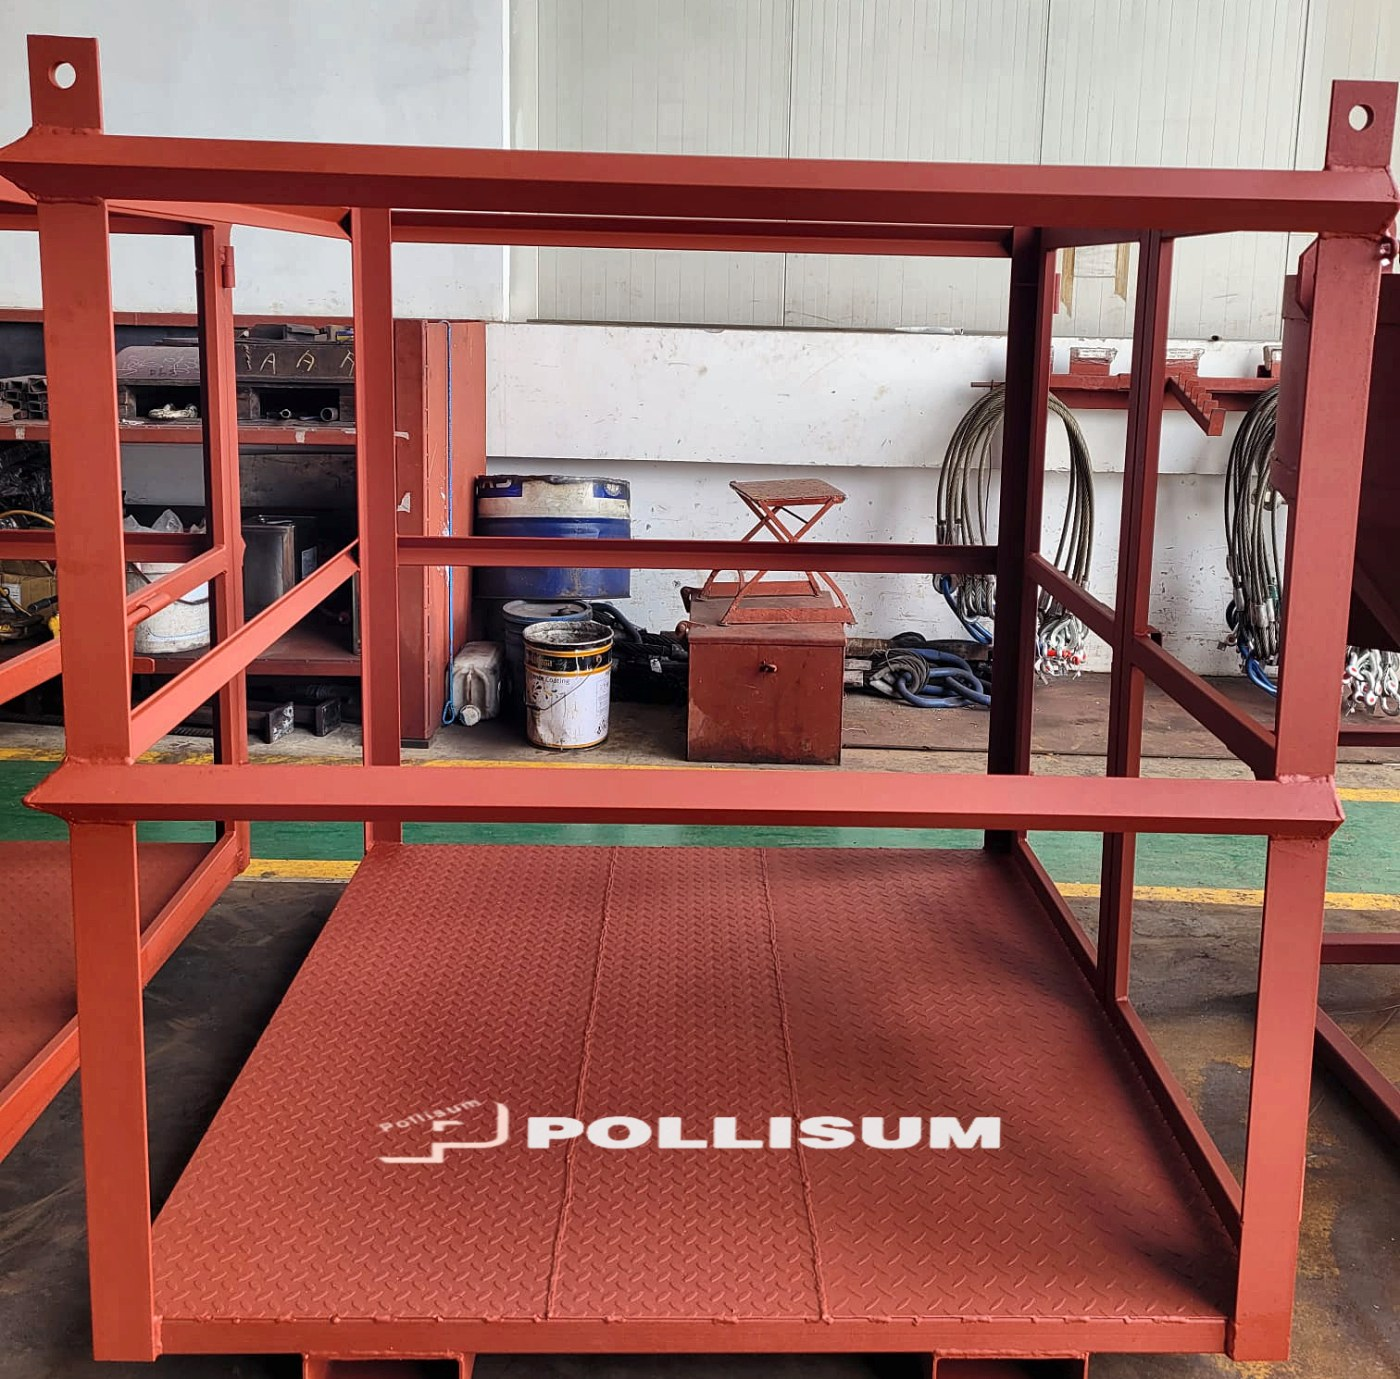
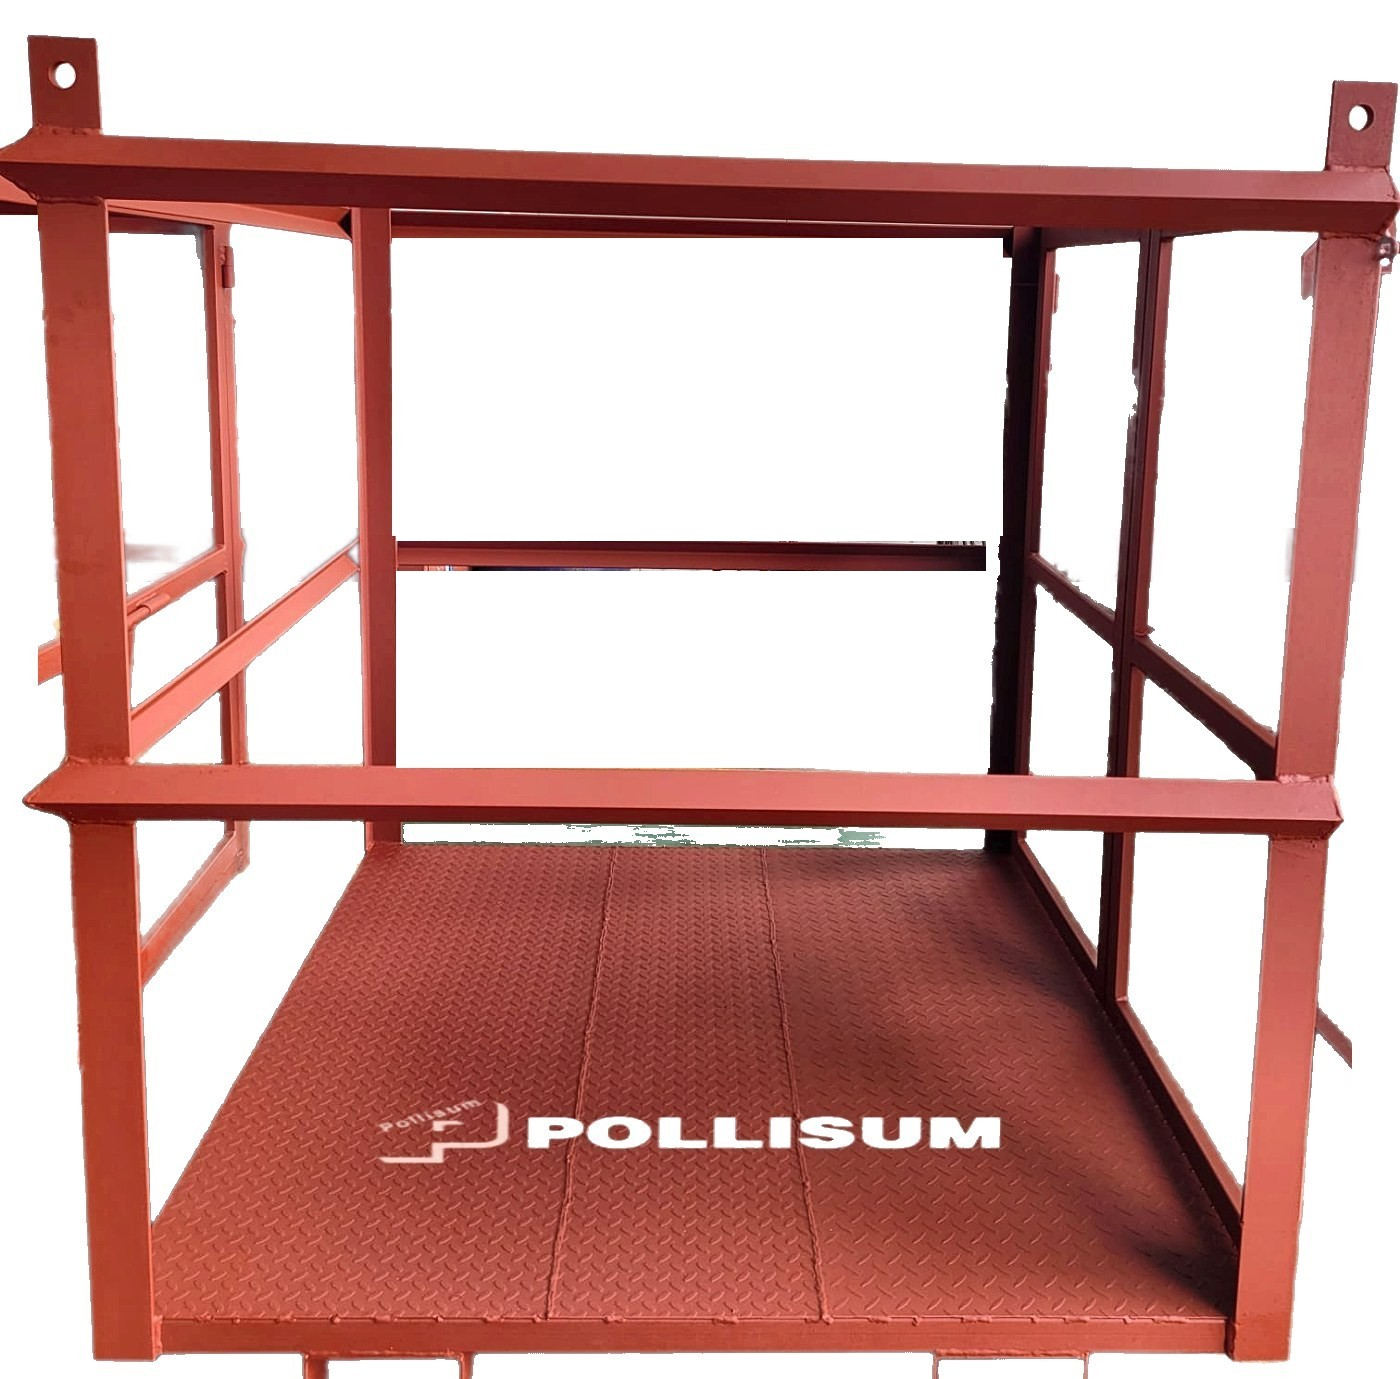
Custom-Made: white-background cutouts for bucket and pallet frame, drop descriptions
Claude-Session: https://claude.ai/code/session_01VA2zqWandkQMyksCkGEFB9

diff --git a/src/ar.js b/src/ar.js
@@ -1,1 +1,1 @@
-export const AR={"c_batching": 1.305, "c_bottomopen": 1.161, "c_bucketopen": 1.5, "c_palletframe": 1.015, "c_chainblock": 0.22, "c_circman": 0.67, "c_corbel": 1.303, "c_corbel2": 1.777, "c_cyltrolley": 1.079, "c_endplate": 1.311, "c_endplate2": 0.997, "c_endplate3": 0.749, "c_fronthandle": 0.955, "c_liftbarge": 0.734, "c_liftbucket": 1.398, "c_liftdoor": 1.576, "c_liftframe": 1.856, "c_liftframe2": 2.037, "c_liftframe3": 1.777, "c_liftoffset": 1.157, "c_liftrect": 1.797, "c_loadtest1": 1.344, "c_loadtest2": 1.349, "c_loadtest3": 1.358, "c_loadtest4": 0.917, "c_loadtest5": 0.811, "c_magnetic": 1.957, "c_matcage": 0.772, "c_meshcage": 2.959, "c_mudtank": 1.629, "c_palletcage": 1.131, "c_platform1": 2.632, "c_rolling": 1.575, "c_sbprecast": 0.952, "c_sbsling": 0.621, "c_sbwall": 0.545, "c_selfhopper": 1.093, "c_shackles": 1.518, "c_sidedisch": 0.8, "c_sidedisch2": 1.22, "c_slingbucket": 0.775, "c_spreader": 3.024, "c_storage": 0.942, "c_svc_bending": 1.332, "c_svc_cutting": 1.332, "c_svc_pressbrake": 1.337, "c_svc_punching": 1.337, "c_svc_rolling": 0.749, "c_svc_shearing": 1.337, "c_tipskip": 1.332, "c_transfer": 2.913, "c_trolley": 1.377, "c_twinhopper": 0.976, "c_watersilo": 2.045, "c_watertank": 0.58};
+export const AR={"c_batching": 1.305, "c_bottomopen": 1.161, "c_bucketopen": 1.476, "c_palletframe": 1.015, "c_chainblock": 0.22, "c_circman": 0.67, "c_corbel": 1.303, "c_corbel2": 1.777, "c_cyltrolley": 1.079, "c_endplate": 1.311, "c_endplate2": 0.997, "c_endplate3": 0.749, "c_fronthandle": 0.955, "c_liftbarge": 0.734, "c_liftbucket": 1.398, "c_liftdoor": 1.576, "c_liftframe": 1.856, "c_liftframe2": 2.037, "c_liftframe3": 1.777, "c_liftoffset": 1.157, "c_liftrect": 1.797, "c_loadtest1": 1.344, "c_loadtest2": 1.349, "c_loadtest3": 1.358, "c_loadtest4": 0.917, "c_loadtest5": 0.811, "c_magnetic": 1.957, "c_matcage": 0.772, "c_meshcage": 2.959, "c_mudtank": 1.629, "c_palletcage": 1.131, "c_platform1": 2.632, "c_rolling": 1.575, "c_sbprecast": 0.952, "c_sbsling": 0.621, "c_sbwall": 0.545, "c_selfhopper": 1.093, "c_shackles": 1.518, "c_sidedisch": 0.8, "c_sidedisch2": 1.22, "c_slingbucket": 0.775, "c_spreader": 3.024, "c_storage": 0.942, "c_svc_bending": 1.332, "c_svc_cutting": 1.332, "c_svc_pressbrake": 1.337, "c_svc_punching": 1.337, "c_svc_rolling": 0.749, "c_svc_shearing": 1.337, "c_tipskip": 1.332, "c_transfer": 2.913, "c_trolley": 1.377, "c_twinhopper": 0.976, "c_watersilo": 2.045, "c_watertank": 0.58};

diff --git a/src/data.js b/src/data.js
@@ -800,13 +800,11 @@ export const DATA = {
   },
   {
    "img": "c_bucketopen",
-   "name": "Open-Top Bucket",
-   "desc": "Open-top steel bucket with lifting lugs and a sloped discharge side, made to your size and load."
+   "name": "Open-Top Bucket"
   },
   {
    "img": "c_palletframe",
-   "name": "Stackable Pallet Frame",
-   "desc": "Stackable steel frame with chequered plate deck, forklift pockets and lifting lugs, made to your size and load."
+   "name": "Stackable Pallet Frame"
   },
   {
    "img": "c_mudtank",
